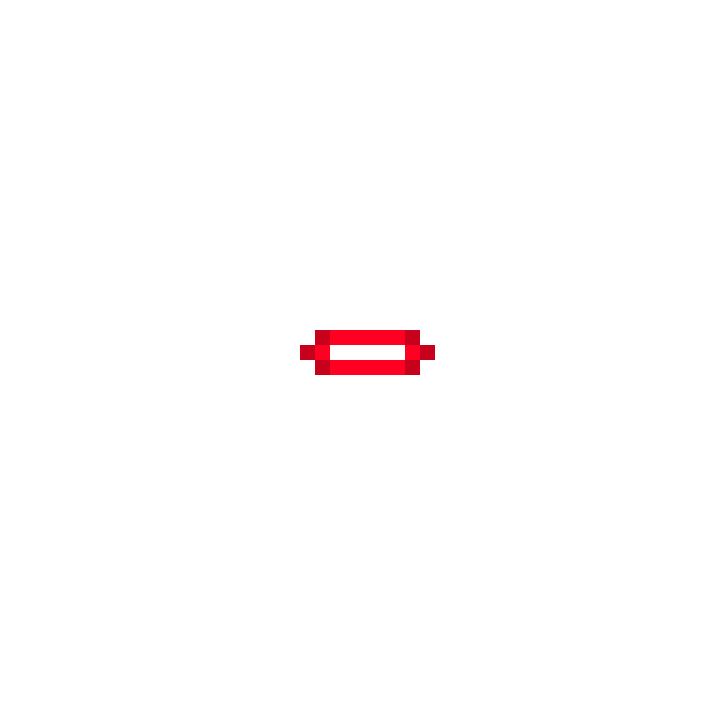
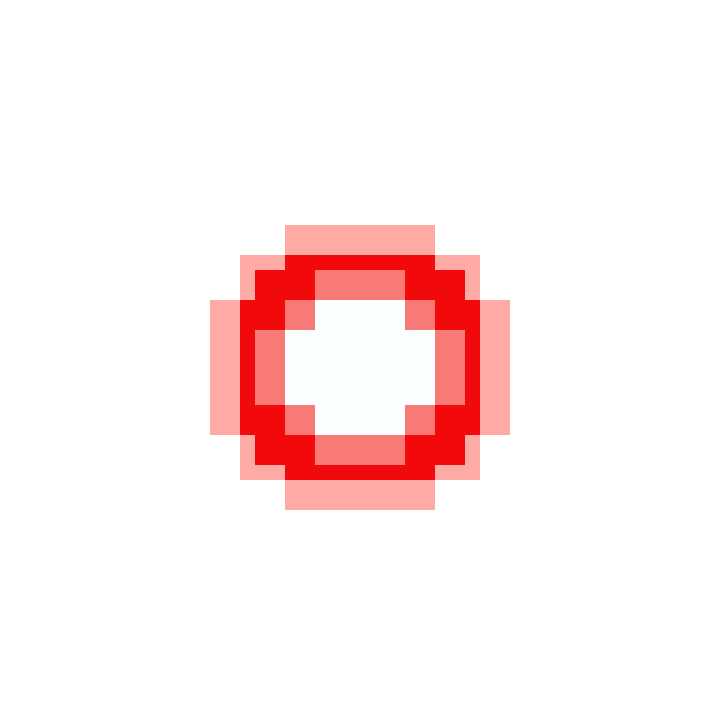
feat: enchane bullet attack, update image

Changed region(s): [[0.275, 0.3056, 0.7333, 0.7333]]

diff --git a/src/main/java/com/game/itgame/entity/enemy/Mob3.java b/src/main/java/com/game/itgame/entity/enemy/Mob3.java
@@ -1,0 +1,53 @@
+package com.game.itgame.entity.enemy;
+
+import com.game.itgame.eventHandle.EnemyHandle;
+import com.game.itgame.eventHandle.Skill;
+import com.game.itgame.map.MapMove;
+import javafx.scene.canvas.GraphicsContext;
+import javafx.scene.image.Image;
+import java.util.Objects;
+
+public class Mob3 extends EnemyRender {
+
+    public Mob3(int x, int y, GraphicsContext ctx) {
+        super(x, y, ctx);
+        this.width = 50;
+        this.height = 50;
+        this.image = new Image(Objects.requireNonNull(getClass().getResourceAsStream("/images/mob/mob3.png")));
+        this.imageWidth = 720;
+        this.imageHeight = 720;
+        this.frameLength = 3;
+        this.frameStateIndex = 0;
+        this.verticalSpeed = 2;
+        Hp = 8;
+        attack1 = new Skill(this, 4000, 1500, 1000);
+    }
+
+    @Override
+    public void update(double deltaTime, EnemyHandle key, MapMove map) {
+        //update vi tri tuong doi khi nhan vat di chuyen
+        this.x -= map.getOffsetX();
+        this.y -= map.getOffsetY();
+        attack1.update(deltaTime);
+
+        if(attack1.state == 0){
+            // stay
+        } else if(attack1.state == 1){
+            key.moveEnemy(this);
+        } else if(attack1.state == 2){
+
+        }
+
+        move(key);
+        key.collisionPlayer(this, deltaTime);
+        draw(deltaTime);
+    }
+    protected void critMode(){
+        this.verticalSpeed = 6;
+        this.frameStateIndex = 1;
+    }
+    protected void normMode(){
+        this.verticalSpeed = 2;
+        this.frameStateIndex = 0;
+    }
+}

diff --git a/src/main/java/com/game/itgame/eventHandle/EnemyHandle.java b/src/main/java/com/game/itgame/eventHandle/EnemyHandle.java
@@ -3,6 +3,7 @@ package com.game.itgame.eventHandle;
 import com.game.itgame.entity.enemy.EnemyRender;
 import com.game.itgame.entity.enemy.Mob1;
 import com.game.itgame.entity.enemy.Mob2;
+import com.game.itgame.entity.enemy.Mob3;
 import com.game.itgame.entity.player.Player;
 import com.game.itgame.map.MapMove;
 import com.game.itgame.weapon.Aim;
@@ -64,7 +65,6 @@ public class EnemyHandle { // điều khiển enemy tiến lại gần player
 
         if(enemy.collisionTimer >= 1000){
             player.Hp -= enemy.getCollisionDamage();
-            //System.out.println("ops");
             enemy.collisionTimer = 0;
         }
     }
@@ -125,8 +125,9 @@ public class EnemyHandle { // điều khiển enemy tiến lại gần player
     }
     public void bulletAttack(EnemyRender enemy, List<Bullet> bullet){
         double angle = Math.toDegrees(Math.atan2(player.getY() - enemy.y, player.getX() - enemy.x));
-        bullet.add(new Bullet(enemy.x, enemy.y, angle));
-        bullet.add(new Bullet(enemy.x + 20*Math.cos(Math.toRadians(angle)), enemy.y + 20*Math.sin(Math.toRadians(angle)), angle));
+        bullet.add(new Bullet(enemy.x + enemy.getWidth()/2, enemy.y + enemy.getHeight()/2, angle));
+        bullet.add(new Bullet(enemy.x + enemy.getWidth()/2 + 20*Math.cos(Math.toRadians(angle)),
+                              enemy.y + enemy.getHeight()/2 + 20*Math.sin(Math.toRadians(angle)), angle));
     }
     public void reduceHp(int hp){
         player.Hp -= hp;

diff --git a/src/main/java/com/game/itgame/weapon/sword/SwordAttack.java b/src/main/java/com/game/itgame/weapon/sword/SwordAttack.java
@@ -10,12 +10,14 @@ import java.util.List;
 public abstract class SwordAttack extends SwordRender implements Weapon {
     private boolean onAttack = false;
     private boolean isCoolDown = false;
-    private double timer = 0;
+    private double timer = 0, coolDownTimer = 0;
     Iterator<EnemyRender> iterator;
-    private final double coolDown = 400;
+    private final double coolDownTime = 400;
 
     @Override
     public void attack(GraphicsContext ctx, double deltaTime, Player player, List<EnemyRender> enemies, double angle) {
+        timer += deltaTime;
+        coolDownTimer += deltaTime;
        if (!onAttack) {
            ctx.getCanvas().setOnMouseClicked(e -> {
                onAttack = true;
@@ -35,6 +37,7 @@ public abstract class SwordAttack extends SwordRender implements Weapon {
                    }
                }
            }
+
            if (timer > 30) {
                if (swordIndex >= swordImageLength) {
                    swordIndex = 0;
@@ -43,14 +46,13 @@ public abstract class SwordAttack extends SwordRender implements Weapon {
                } else {
                    swordIndex++;
                }
+               timer = 0;
            }
        }
 
-        timer += deltaTime;
-
-        if (timer >= coolDown) {
-          timer = 0;
-          isCoolDown = false;
+        if (coolDownTimer >= coolDownTime) {
+            coolDownTimer = 0;
+            isCoolDown = false;
         }
     }
 }

diff --git a/src/main/java/com/game/itgame/entity/EntityMove.java b/src/main/java/com/game/itgame/entity/EntityMove.java
@@ -11,14 +11,14 @@ public abstract class EntityMove  implements EntityInterface {
 
     @Override
     public void move(KeyHandle key) {
-//        Thay đổi frameStateIndex và frameLength tùy thuộc vào trạng thái của player.
-        if(key.up || key.down || key.left || key.right) {
-            this.frameStateIndex = 3;
-            this.frameLength = 8;
-        } else {
-            this.frameStateIndex = 0;
-            this.frameLength = 6;
-        }
+////        Thay đổi frameStateIndex và frameLength tùy thuộc vào trạng thái của player.
+//        if(key.up || key.down || key.left || key.right) {
+//            this.frameStateIndex = 3;
+//            this.frameLength = 8;
+//        } else {
+//            this.frameStateIndex = 0;
+//            this.frameLength = 6;
+//        }
     }
     public double getVerticalSpeed(){
         return verticalSpeed;

diff --git a/src/main/java/com/game/itgame/weapon/arrow/Bullet.java b/src/main/java/com/game/itgame/weapon/arrow/Bullet.java
@@ -12,16 +12,17 @@ public class Bullet extends FlyThings{
         arrowY = y;
         arrowAngle = angle;
         this.offsetAngle = 0;
-        this.height = 60;
-        this.width = 60;
-        speed = 10;
+        this.height = 20;
+        this.width = 20;
+        speed = 6;
         arrowImage = new Image(Objects.requireNonNull(Sword.class.getResourceAsStream("/images/mob/mob2/mob2bullet.png")));
     }
 
     @Override
     public void attack() {
         // tâm của đạn
-        double distance = Math.sqrt(Math.pow(arrowX - player.getX(), 2) + Math.pow(arrowY - player.getY(), 2));
+        double distance = Math.sqrt(Math.pow(arrowX - player.getX() - player.getWidth()/2, 2)
+                                    + Math.pow(arrowY - player.getY() - player.getHeight()/2, 2));
         if(distance <= 15){
             player.Hp -= 2;
             isAttacked = true;

diff --git a/src/main/java/com/game/itgame/weapon/arrow/ArrowRender.java b/src/main/java/com/game/itgame/weapon/arrow/ArrowRender.java
@@ -12,10 +12,11 @@ public abstract class ArrowRender extends FlyThings {
 
         while (iterator.hasNext()) {
             EnemyRender enemy = iterator.next();
-            double distance = Math.sqrt(Math.pow(arrowX - enemy.getX(), 2)
-                                        + Math.pow(arrowY - enemy.getY(), 2));
-
-            if (distance <= 25) {
+            double distance = Math.sqrt(Math.pow(arrowX - enemy.getX() - enemy.getWidth()/2, 2)
+                                        + Math.pow(arrowY - enemy.getY() - enemy.getHeight()/2, 2));
+//            double distance = Math.sqrt(Math.pow(arrowX - enemy.getX(), 2)
+//                                      + Math.pow(arrowY - enemy.getY(), 2));
+            if (distance <= 50) {
                 enemy.Hp -= 2;
                 isAttacked = true;
                 System.out.println(enemy.Hp);

diff --git a/src/main/java/com/game/itgame/weapon/sword/SwordRender.java b/src/main/java/com/game/itgame/weapon/sword/SwordRender.java
@@ -22,15 +22,15 @@ public abstract class SwordRender implements Weapon {
             mouseY = e.getY();
         });
 
-        double angle = Math.toDegrees(Math.atan2(player.getX() + 15  - mouseX, mouseY - 20 - player.getY()) + Math.PI / 2);
+        double angle = Math.toDegrees(Math.atan2(player.getX() + 25  - mouseX, mouseY - 40 - player.getY()) + Math.PI / 2);
 //        Check attack.
         attack(ctx, deltaTime, player, enemies, angle);
 
 //        Draw weapon.
         ctx.save();
-        ctx.translate(player.getX() + 15, player.getY() + 20);
+        ctx.translate(player.getX() + 25, player.getY() + 40);
         ctx.rotate(angle);
-        ctx.drawImage(swordImage, swordIndex * 480, 0, 480, 480, -15, -35, 70, 70);
+        ctx.drawImage(swordImage, swordIndex * 720, 0, 720, 720, -15, -35, 60, 60);
         ctx.restore();
     }
 }

diff --git a/src/main/java/com/game/itgame/weapon/bow/BowRender.java b/src/main/java/com/game/itgame/weapon/bow/BowRender.java
@@ -22,15 +22,15 @@ public abstract class BowRender implements Weapon {
             mouseY = e.getY();
         });
 
-        double angle = Math.toDegrees(Math.atan2(player.getX() + 15  - mouseX, mouseY - 20 - player.getY()) + Math.PI / 4);
+        double angle = Math.toDegrees(Math.atan2(player.getX() + 25  - mouseX, mouseY - 40 - player.getY()) + Math.PI / 2);
 //      Check attack.
         attack(ctx, deltaTime, player, enemies, angle);
 
 //      Draw weapon.
         ctx.save();
-        ctx.translate(player.getX() + 15, player.getY() + 20);
+        ctx.translate(player.getX() + 25, player.getY() + 40);
         ctx.rotate(angle);
-        ctx.drawImage(bowImage, bowIndex * 720, 0, 720, 720, -15, -15, 35, 35);
+        ctx.drawImage(bowImage, bowIndex * 720, 0, 720, 720, -15, -25, 50, 50);
         ctx.restore();
     }
 }

diff --git a/src/main/java/com/game/itgame/entity/player/Player.java b/src/main/java/com/game/itgame/entity/player/Player.java
@@ -11,12 +11,12 @@ public class Player extends EntityRender {
     protected HealthBar bar;
     public Player(double x, double y, GraphicsContext ctx) {
         super(x, y, ctx);
-        this.width = 30;
-        this.height = 30;
-        this.image = new Image(Objects.requireNonNull(getClass().getResourceAsStream("/images/player/player.png")));
-        this.imageWidth = 575;
-        this.imageHeight = 523;
-        this.frameLength = 6;
+        this.width = 50;
+        this.height = 50;
+        this.image = new Image(Objects.requireNonNull(getClass().getResourceAsStream("/images/player/character3-left.png")));
+        this.imageWidth = 720;
+        this.imageHeight = 720;
+        this.frameLength = 5;
         this.frameStateIndex = 0;
         this.verticalSpeed = 5;
         this.damage = 2;

diff --git a/src/main/java/com/game/itgame/controller/CanvasController.java b/src/main/java/com/game/itgame/controller/CanvasController.java
@@ -3,6 +3,7 @@ package com.game.itgame.controller;
 import com.game.itgame.entity.enemy.EnemyRender;
 import com.game.itgame.entity.enemy.Mob1;
 import com.game.itgame.entity.enemy.Mob2;
+import com.game.itgame.entity.enemy.Mob3;
 import com.game.itgame.entity.player.Player;
 import com.game.itgame.eventHandle.EnemyHandle;
 import com.game.itgame.weapon.Aim;
@@ -54,6 +55,7 @@ public class CanvasController {
             }
         }
         enemies.add(new Mob1(16, 16, ctx));
+        enemies.add(new Mob3(18, 18, ctx));
         move = new EnemyHandle(player, map, new Aim(ctx));
         Bullet.player = player;
 //        Tao vòng lặp để vẽ và cập nhật trạng thái của player map và sword.

diff --git a/src/main/java/com/game/itgame/weapon/arrow/FlyThings.java b/src/main/java/com/game/itgame/weapon/arrow/FlyThings.java
@@ -1,7 +1,6 @@
 package com.game.itgame.weapon.arrow;
 
 import com.game.itgame.entity.enemy.EnemyRender;
-import com.game.itgame.eventHandle.EnemyHandle;
 import com.game.itgame.map.MapMove;
 import javafx.scene.canvas.GraphicsContext;
 import javafx.scene.image.Image;
@@ -25,13 +24,11 @@ public abstract class FlyThings {
 
     public void render(GraphicsContext ctx, MapMove map) {
         move(map);
-
         ctx.save();
         ctx.translate(arrowX + 15, arrowY + 20);
         ctx.rotate(offsetAngle + arrowAngle);
         ctx.drawImage(arrowImage, 0, 0, 720, 720, 0, 0, height, width);
         ctx.restore();
-
         attack();
     }
 

diff --git a/src/main/java/com/game/itgame/weapon/arrow/Arrow.java b/src/main/java/com/game/itgame/weapon/arrow/Arrow.java
@@ -10,8 +10,8 @@ public class Arrow extends ArrowRender {
         arrowX = x;
         arrowY = y;
         arrowAngle = angle;
-        this.offsetAngle = -45;
+        this.offsetAngle = 0;
         height = width = 30;
-        arrowImage = new Image(Objects.requireNonNull(Sword.class.getResourceAsStream("/images/weapon/arrow.png")));
+        arrowImage = new Image(Objects.requireNonNull(Sword.class.getResourceAsStream("/images/weapon/arrow22.png")));
     }
 }
